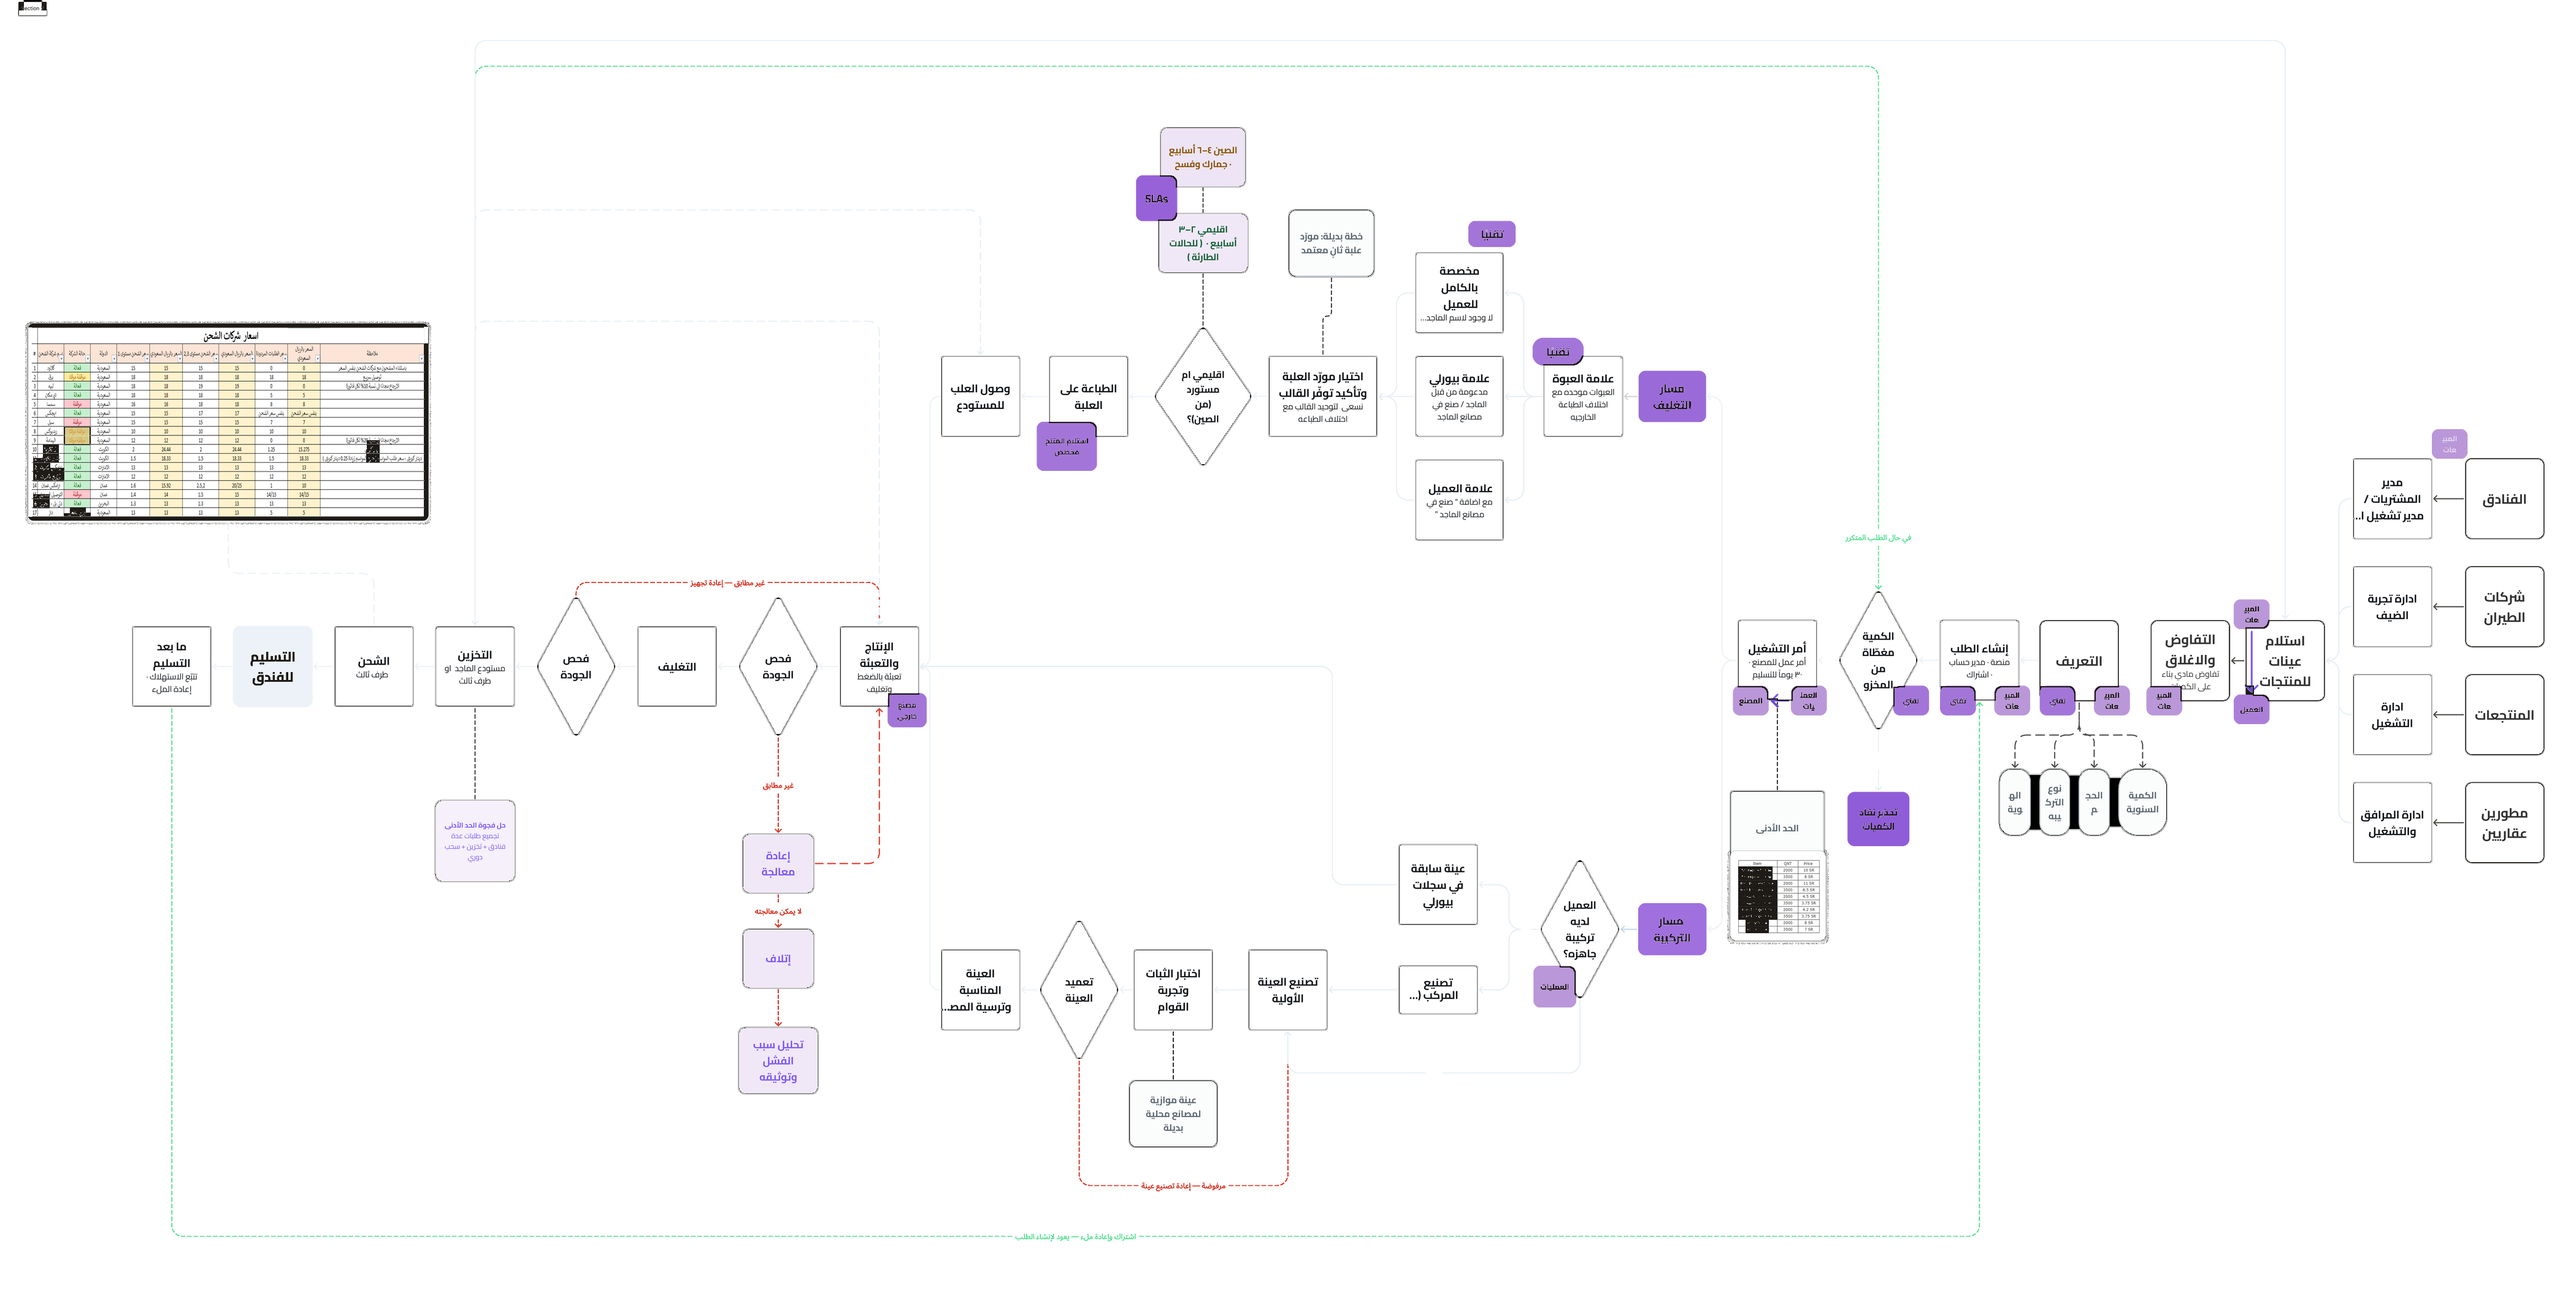
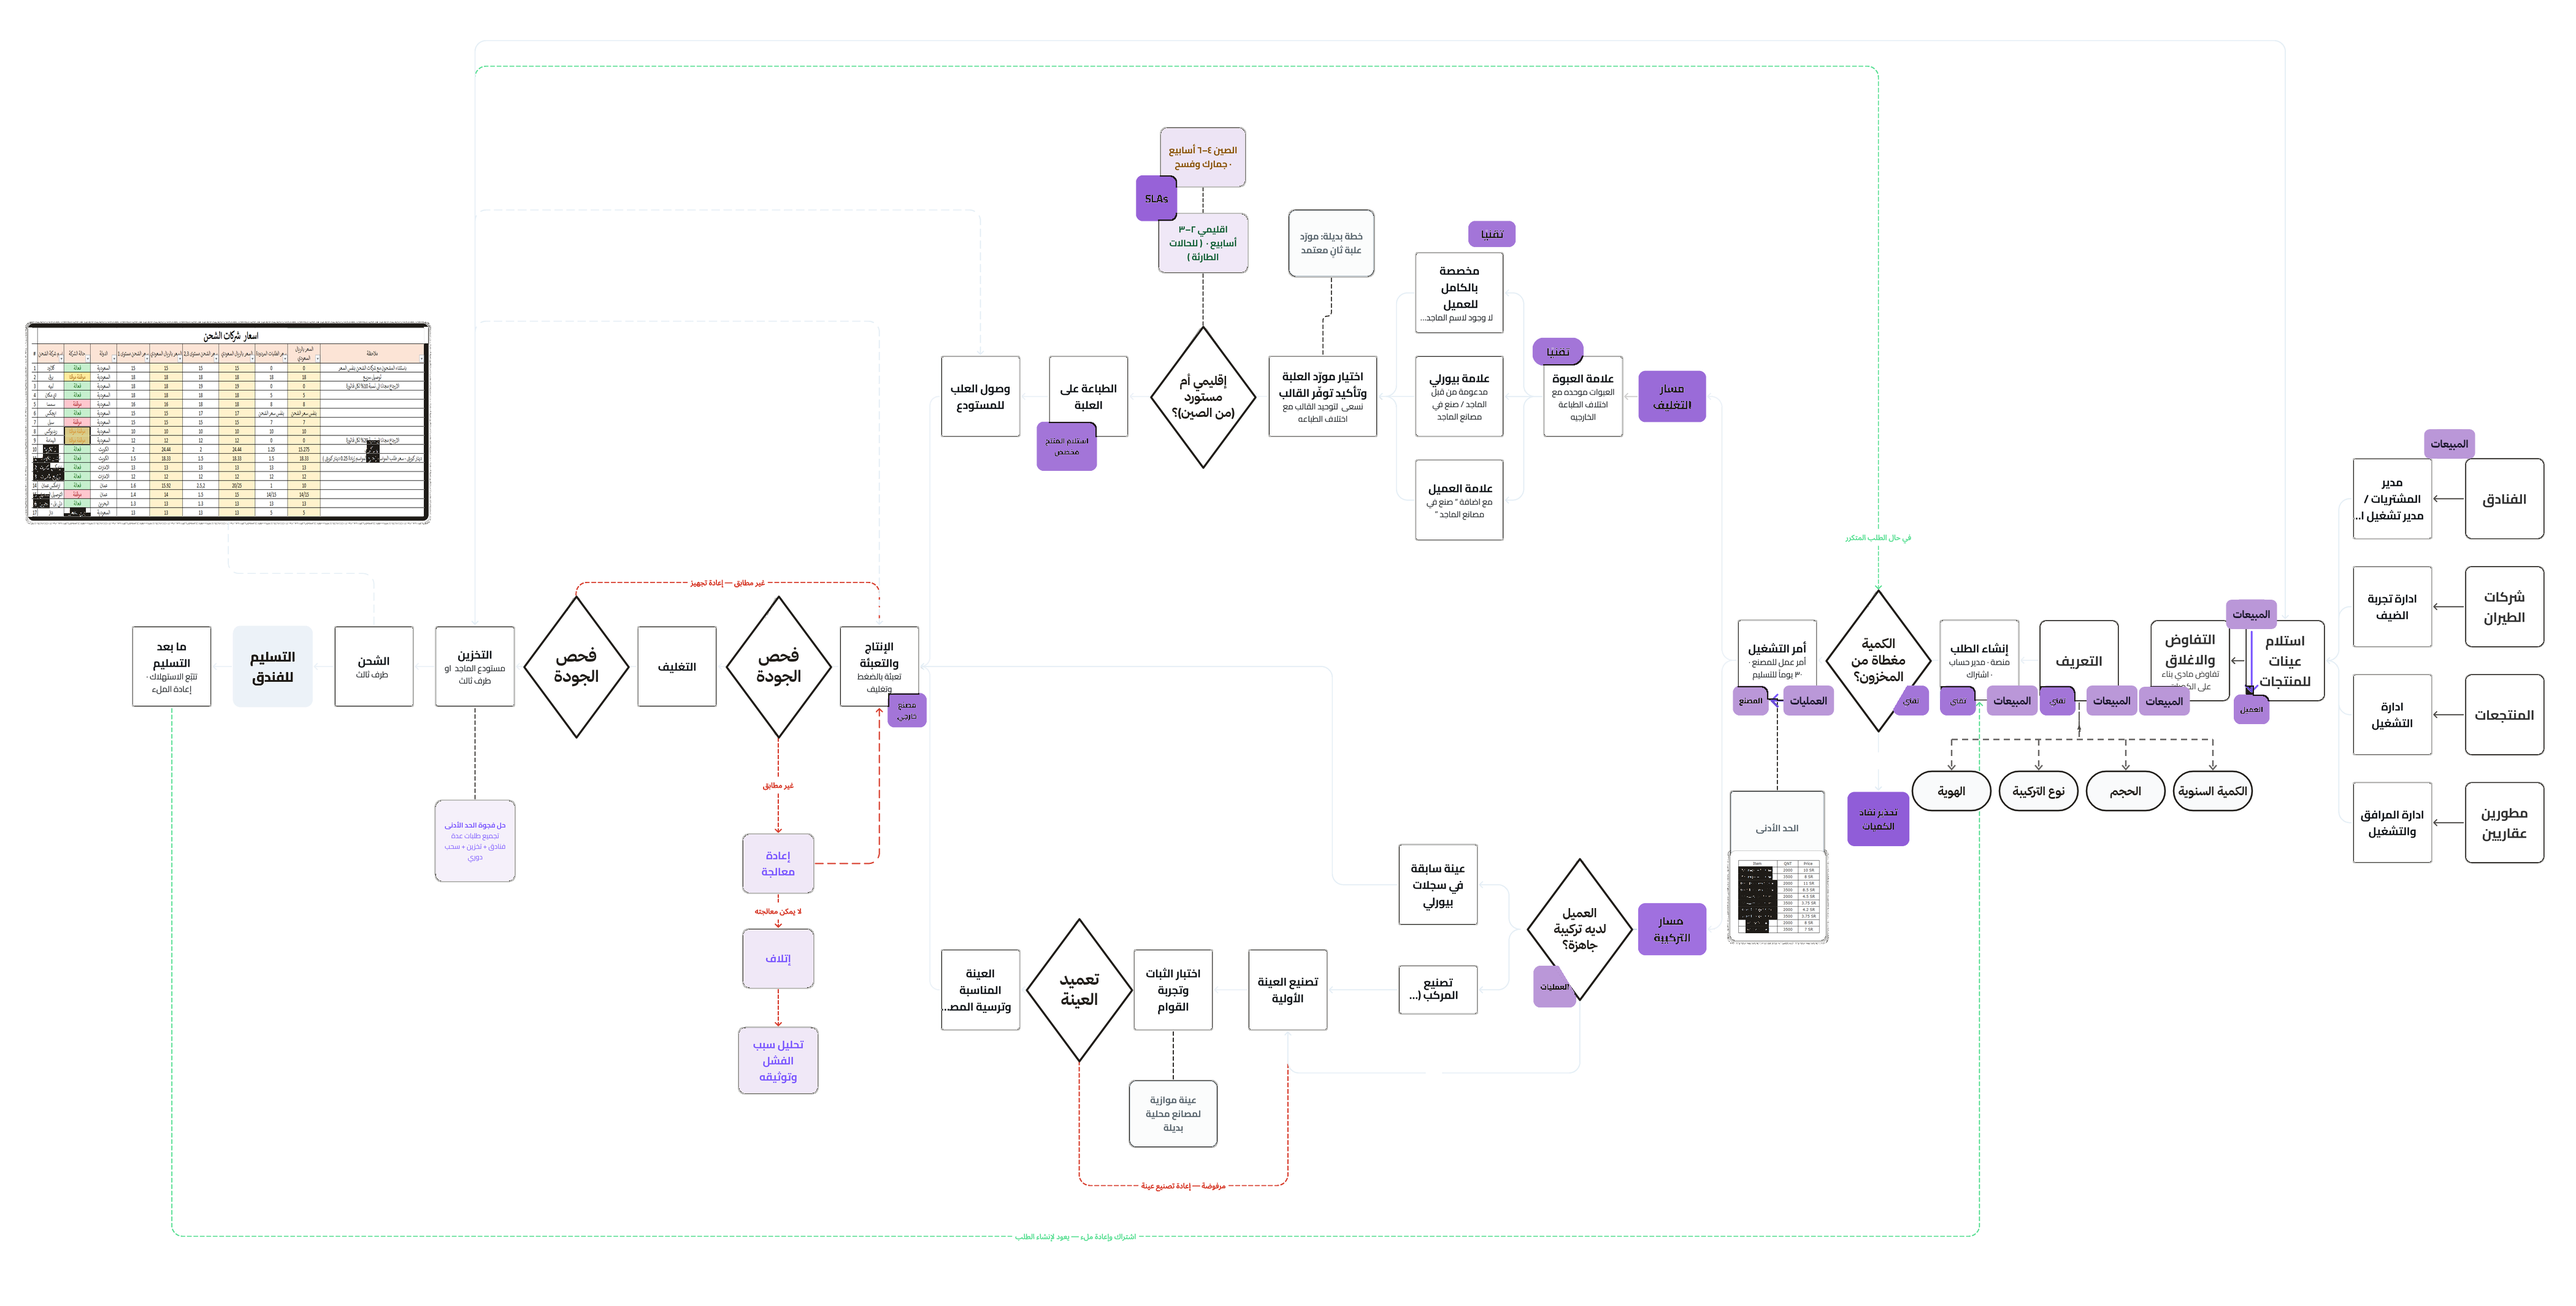
Operating model: the full chart tours itself over three parts then draws back out; stretched diamonds, split chips and the definition pills redrawn
Claude-Session: https://claude.ai/code/session_01Uu6fMQrqTxjonSfyeAnjZq

diff --git a/presentation-bundle-lavara/js/core/templates.js b/presentation-bundle-lavara/js/core/templates.js
@@ -970,38 +970,51 @@ TEMPLATES.figure = {
   name: 'مخطط أو صورة تفصيلية', en: 'Figure', group: 'extra', defaultBg: 'background', suggested: 'النموذج التشغيلي',
   fields: [F.eyebrow, F.title, { key: 'lead', type: 'text', label: 'سطر قصير تحت العنوان' }, { key: 'image', type: 'image', simple: true, label: 'الصورة (يفضّل خلفية شفافة)' },
     { key: 'zoom', type: 'toggle', label: 'التكبير عند الضغط' },
-    { key: 'tour', type: 'toggle', label: 'جولة بالنقر: كل نقرة تكبّر جزءاً من المخطط بملء الشاشة (من اليمين لليسار)' }],
-  defaults: { eyebrow: '', title: 'المخطط', lead: '', image: '', zoom: true, tour: false },
-  // the tour: a wide chart too fine to read whole. It opens whole; each press flies the camera onto one part of it
-  // filling the slide (right to left, the main line first, then what branches above it); the last press shows it whole again
-  steps: d => (d.tour ? FIG_TOUR.length + 1 : 0),
-  applyStep: (el, step) => {
-    const art = el.querySelector('.t-figure.is-tour .fg-art'), img = art?.querySelector('img'); if (!img) return;
-    const go = () => {
+    { key: 'tour', type: 'toggle', label: 'جولة تلقائية: تقرّب ثلاثة أجزاء من المخطط تباعاً بلا توقف ثم تعرضه كاملاً' },
+    { key: 'tourRegions', type: 'text', label: 'أجزاء الجولة (اختياري): x,y,عرض,ارتفاع كنسب من المخطط، مفصولة بـ ;' }],
+  defaults: { eyebrow: '', title: 'المخطط', lead: '', image: '', zoom: true, tour: false, tourRegions: '' },
+  // the tour: a wide chart too fine to read whole. It opens whole, then by itself the camera flies onto its three parts
+  // in turn (right, middle, left: the chart reads right to left), resting on each, and draws back out to the whole
+  steps: () => 0,
+  applyStep: (el, step, instant) => {
+    const t = el.querySelector('.t-figure.is-tour'), art = t?.querySelector('.fg-art'), img = art?.querySelector('img'); if (!img) return;
+    const regs = figRegions(t.dataset.regions);
+    const go = r => {
       const iw = img.naturalWidth, ih = img.naturalHeight, W = art.clientWidth, H = art.clientHeight; if (!iw || !W) return;
-      const rem = W / 160, r = step >= 1 && step <= FIG_TOUR.length ? FIG_TOUR[step - 1] : null;
+      const rem = W / 160;
       // home: the whole chart in the area under the title; a part: that region filling the slide
-      const box = r ? { x: 0, y: 0, w: W, h: H } : { x: 6 * rem, y: 19 * rem, w: W - 12 * rem, h: H - 25.6 * rem };
+      const box = r ? { x: 2 * rem, y: 2 * rem, w: W - 4 * rem, h: H - 4 * rem } : { x: 6 * rem, y: 19 * rem, w: W - 12 * rem, h: H - 25.6 * rem };
       const reg = r || [0, 0, 1, 1], k = Math.min(box.w / (reg[2] * iw), box.h / (reg[3] * ih));
       const cx = (reg[0] + reg[2] / 2) * iw, cy = (reg[1] + reg[3] / 2) * ih;
       img.style.width = iw + 'px'; img.style.height = ih + 'px';
       img.style.transform = `translate(${(box.x + box.w / 2 - cx * k).toFixed(1)}px, ${(box.y + box.h / 2 - cy * k).toFixed(1)}px) scale(${k.toFixed(5)})`;
-      el.querySelector('.t-figure').classList.toggle('is-close', !!r);
+      t.classList.toggle('is-close', !!r);
     };
-    if (img.complete && img.naturalWidth) go(); else img.addEventListener('load', go, { once: true });
+    const start = () => {
+      if (t.dataset.played) return; // once per showing; later calls (a resize) leave the camera where the tour has it
+      t.dataset.played = '1';
+      img.style.transition = 'none'; go(null); void img.offsetWidth; img.style.transition = ''; // home at once, not flown in from full size
+      const MOVE = 2200, HOLD = 3200; let at = 1400;
+      [...regs, null].forEach(r => { setTimeout(() => { if (t.isConnected) go(r); }, at); at += MOVE + (r ? HOLD : 0); });
+    };
+    if (img.complete && img.naturalWidth) start(); else img.addEventListener('load', start, { once: true });
   },
   render: (d, ctx) => {
     const src = imgSrc(d.image);
     return `
-    <div class="t t-figure${d.tour ? ' is-tour' : ''}">
+    <div class="t t-figure${d.tour ? ' is-tour' : ''}"${d.tour && d.tourRegions ? ` data-regions="${esc(d.tourRegions)}"` : ''}>
       <div class="board-head">${eyebrow(d.eyebrow)}${title(d.title)}${leadLine(d, ctx)}</div>
       <div class="fg-art" data-a="media">${src ? `<img src="${esc(ctx.asset(src))}" alt="${esc(d.title || '')}" ${d.zoom !== false && !d.tour ? `data-zoom="${esc(ctx.asset(src))}"` : ''}>` : ''}</div>
     </div>`;
   },
 };
-// the tour's regions as fractions of the chart [x, y, width, height], in order: right column (main line, then above it),
-// then the middle, then the left — each about a third of the width and half the height, overlapping a little
-const FIG_TOUR = [[0.55, 0.47, 0.45, 0.53], [0.55, 0, 0.45, 0.53], [0.275, 0.47, 0.45, 0.53], [0.275, 0, 0.45, 0.53], [0, 0.47, 0.45, 0.53], [0, 0, 0.45, 0.53]];
+// the tour's regions as fractions of the chart [x, y, width, height], in order: the right third, the middle, the left
+// (overlapping a little); a slide may give its own (tourRegions) where a chart's parts sit elsewhere
+const FIG_TOUR = [[0.64, 0.03, 0.36, 0.93], [0.32, 0.03, 0.36, 0.93], [0, 0.03, 0.36, 0.93]];
+function figRegions(txt) {
+  const r = String(txt || '').split(';').map(x => x.split(',').map(Number)).filter(x => x.length === 4 && x.every(Number.isFinite));
+  return r.length ? r : FIG_TOUR;
+}
 
 
 /* ---------------------------------------------------------------- lineup (products standing side by side) */

diff --git a/presentation-bundle-lavara/css/show.css b/presentation-bundle-lavara/css/show.css
@@ -2104,3 +2104,5 @@ html, body { touch-action: manipulation; overscroll-behavior: none; }
 .t-flow.is-process .fl-foot { bottom: 7rem; }
 .t-flow.is-process .pr-row { top: 27rem; }
 .pr-card { min-height: 33rem; }
+.t-figure.is-tour .fg-art img { transition: transform 2.2s cubic-bezier(.65, 0, .35, 1); }
+.t-figure.is-tour .fg-art img:not([style*="transform"]) { opacity: 0; }

diff --git a/presentation-bundle-lavara/PROGRESS.md b/presentation-bundle-lavara/PROGRESS.md
@@ -207,3 +207,4 @@
 - Approvals: business, operating and financial models approved (green, fixed); legal framework open, last. Perfumes discussion moved to the perfumes slide.
 - Numbers use Manrope (assets/fonts/manrope, OFL); Al Majed logo first.
 - Pending from the user: factories number, operations explanations and photos, SAR statistics, «جسر» logo, choice of Lavara bubble background.
+- Operating model (user, round 2): the phases slide is now a short process (flow `layout: process`: stations on one line, each with two short lines from `brief`; each press lights the next station). The full chart tours by itself: three parts in a row (right, middle, left) with no presses, then back to the whole chart (figure `tour`, regions per slide in `tourRegions`). In the chart images the stretched decision diamonds were redrawn as wider rhombuses with their words, split chips («العمل/يات», «المبي/عات») widened onto one line, Lavara's four definition pills redrawn as one row with their arrows, and the stray «Section 4» label removed.
